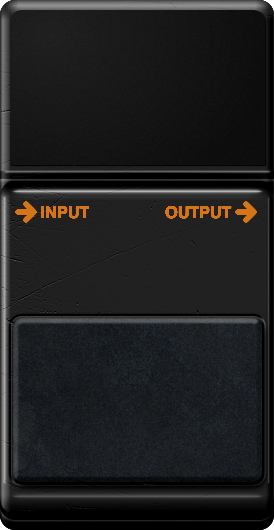
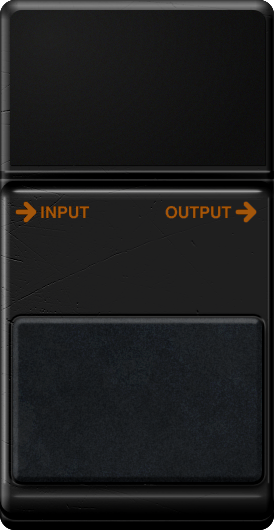
Fix alaising in screenshot and UI

Changed region(s): [[0.5839, 0.3623, 0.9343, 0.4226], [0.0584, 0.3623, 0.3212, 0.4226]]

diff --git a/MetalTone/MOD/modgui/stylesheet-metaltone.css b/MetalTone/MOD/modgui/stylesheet-metaltone.css
@@ -89,7 +89,7 @@
 }
 
 .mod-pedal-japanese{{{cns}}}.mod-black .mod-plugin-name h1 {
-    color:#d67516;
+    color:#a3560b;
 }
 
 .mod-pedal-japanese{{{cns}}}.mod-black .mod-control-group .mod-knob > span.mod-knob-title {
@@ -124,11 +124,12 @@
 .mod-pedal-japanese{{{cns}}} .mod-control-group .mod-knob > span.mod-knob-title {
     color:white;
     display:block;
-    font-size:10px;
+    font-size:11px;
     font-weight:bold;
-    height:11px;
+    height:12px;
     line-height:1;
     margin:0;
+    margin-top: 2px;
     padding:0;
     position:relative;
     overflow:hidden;
